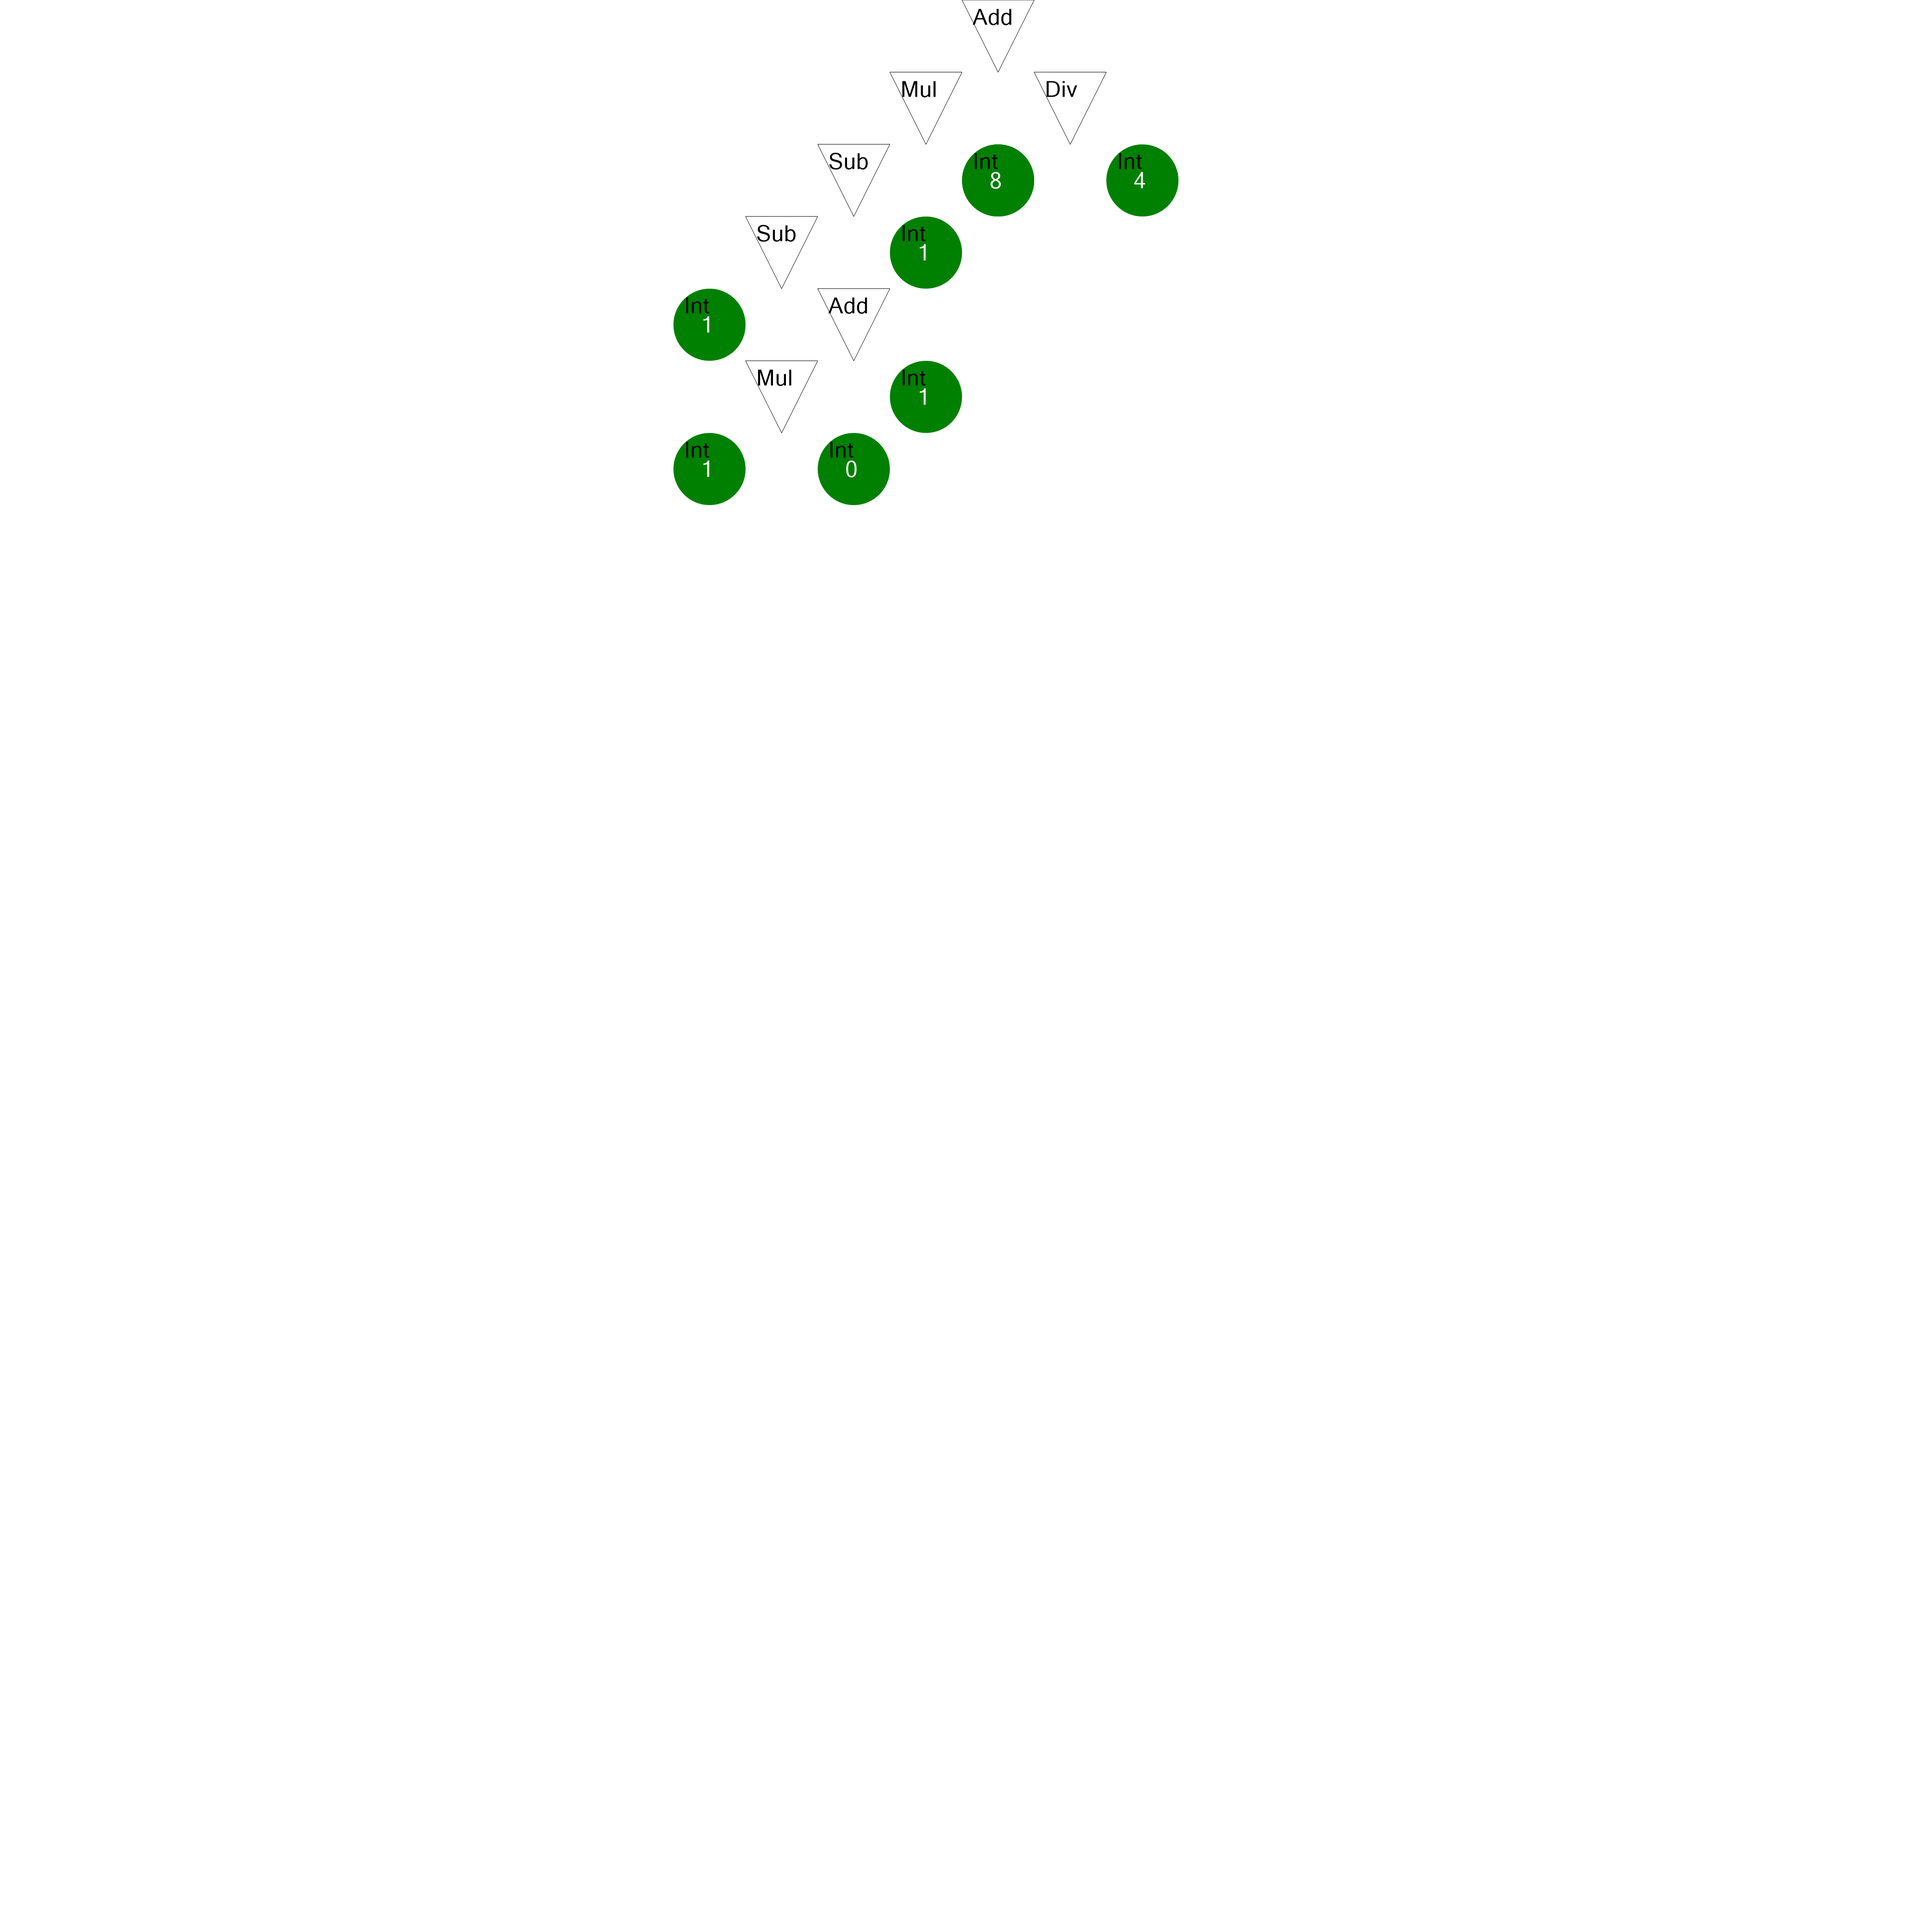
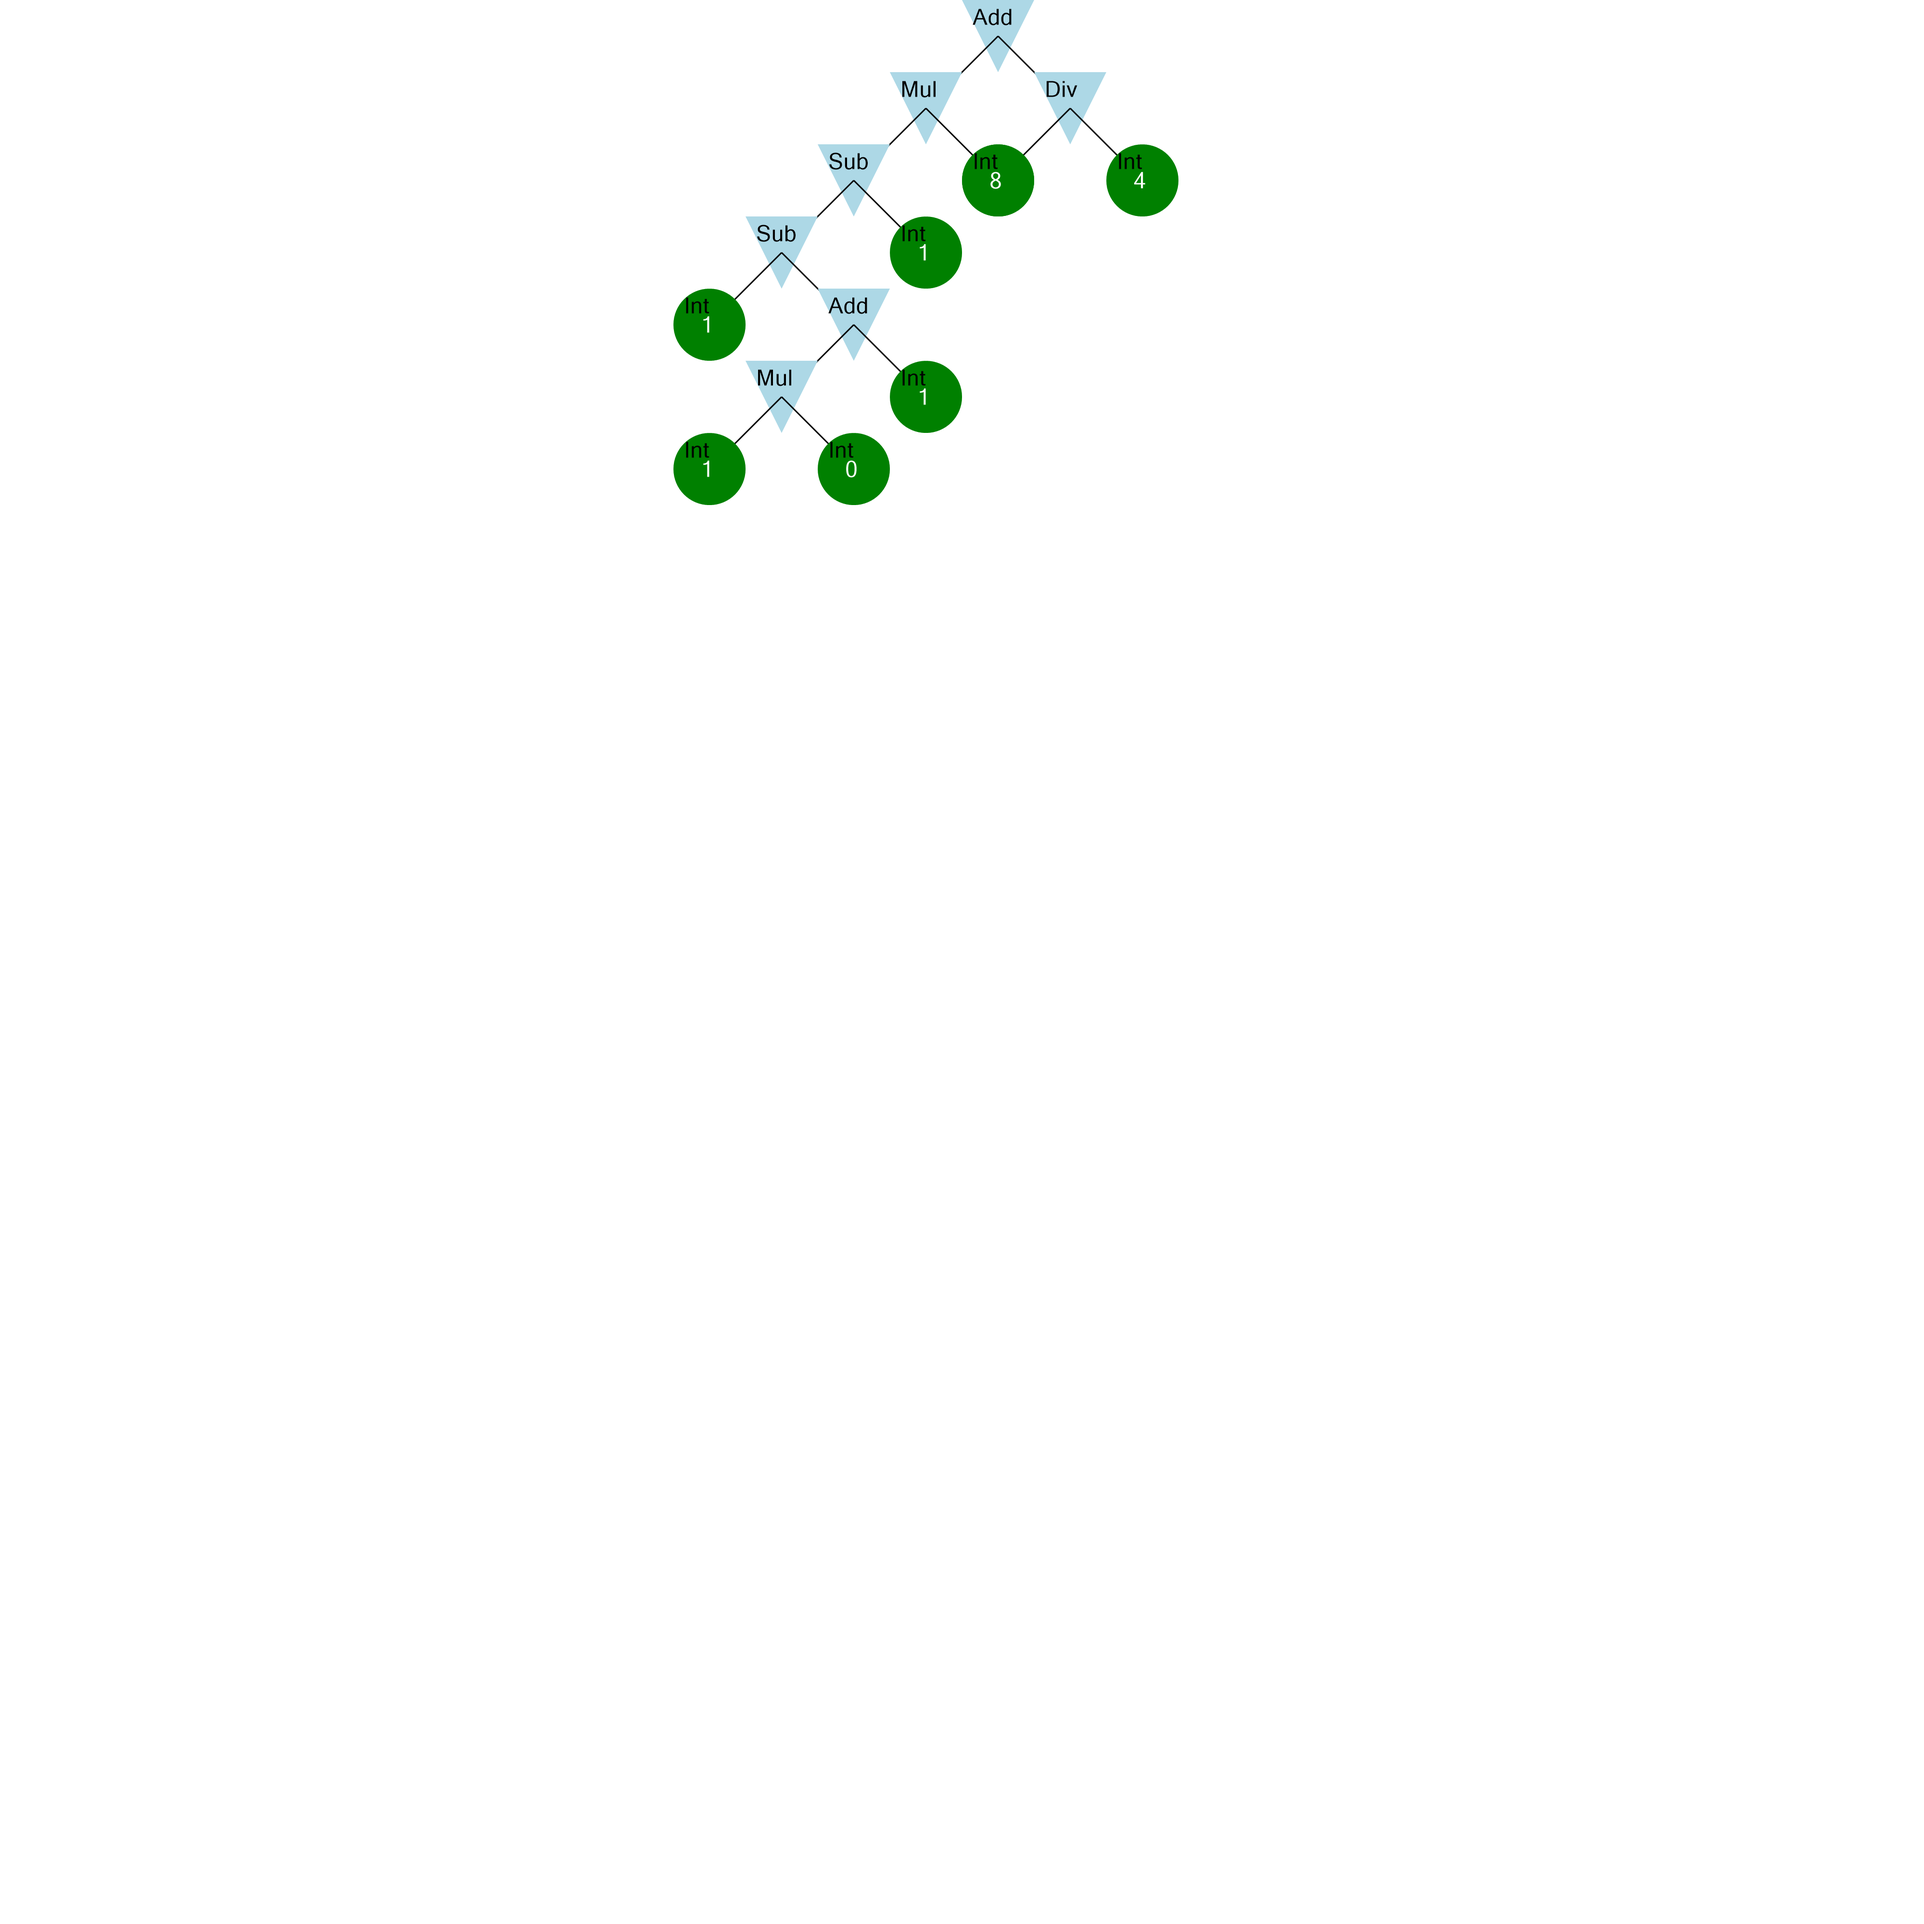
Implemented connection between nodes

Changed region(s): [[0.375, 0.0312, 0.5, 0.2188], [0.5312, 0.0312, 0.5938, 0.0938], [0.5, 0.0, 0.5312, 0.0312]]

diff --git a/src/Athena.NET/Athena.NET.ParseViewer/NodeElements/NodeGraphElement.cs b/src/Athena.NET/Athena.NET.ParseViewer/NodeElements/NodeGraphElement.cs
@@ -15,6 +15,8 @@ namespace Athena.NET.Athena.NET.ParseViewer.NodeElements
         private ReadOnlyMemory<NodeShape> nodeShapes;
 
         public Brush TextBrush { get; set; } = Brushes.Black;
+        public Pen LinePen { get; set; } =
+            new Pen(Brushes.Black, 3);
         public int NodeDistance { get; set; }
 
         public NodeGraphElement(int distance, ReadOnlyMemory<NodeShape> nodeShapes)
@@ -35,10 +37,10 @@ namespace Athena.NET.Athena.NET.ParseViewer.NodeElements
             currentShape.DrawShape.Invoke(node, nodeRectangle, graphics);
 
             string tokenName = node.NodeToken.GetEnumTokenName();
-            var textRectangle = new Rectangle(new(position.X + (nodeSize.Width / 10), position.Y + 10), new(nodeSize.Width - (tokenName.Length * 2), nodeSize.Height - 40));
+            var textRectangle = new Rectangle(new(position.X + (nodeSize.Width / 10), position.Y + 10), new(nodeSize.Width - (tokenName.Length * 3), nodeSize.Height - 40));
             graphics.DrawString(tokenName, SystemFonts.DefaultFont, TextBrush, textRectangle);
 
-            DrawNodeChildrens(node.ChildNodes, graphics, position);
+            DrawNodeChildrens(node, graphics, position);
         }
 
         private NodeShape GetNodeShape(INode node) 
@@ -57,15 +59,37 @@ namespace Athena.NET.Athena.NET.ParseViewer.NodeElements
             return NodeShape.DefaultShape;
         }
 
-        private void DrawNodeChildrens(ChildrenNodes childrenNodes, Graphics graphics, Point position)
+        private void DrawNodeChildrens(INode parentNode, Graphics graphics, Point position)
         {
             int childrenYPosition = position.Y + NodeDistance;
             var leftNodePosition = new Point(position.X - NodeDistance, childrenYPosition);
             var rightNodePosition = new Point(position.X + NodeDistance, childrenYPosition);
 
-            OnDraw(childrenNodes.LeftNode, graphics, leftNodePosition);
-            OnDraw(childrenNodes.RightNode, graphics, rightNodePosition);
+            DrawNodeConnection(parentNode.ChildNodes.LeftNode, leftNodePosition, parentNode, position, graphics);
+            DrawNodeConnection(parentNode.ChildNodes.RightNode, rightNodePosition, parentNode, position, graphics);
+            OnDraw(parentNode.ChildNodes.LeftNode, graphics, leftNodePosition);
+            OnDraw(parentNode.ChildNodes.RightNode, graphics, rightNodePosition);
         }
+
+        //I know that looks wierd and I will
+        //totally rewrite this in a next days
+        private void DrawNodeConnection(INode firstNode, Point firstPosition, INode secondNode, Point secondPosition, Graphics graphics)
+        {
+            if (firstNode is null || secondNode is null)
+                return;
+
+            var firstNodeCenter = CalculateCenterPosition(firstNode, firstPosition);
+            var secondNodeCenter = CalculateCenterPosition(firstNode, secondPosition);
+
+            graphics.DrawLine(LinePen, firstNodeCenter, secondNodeCenter);
+        }
+
+        private Point CalculateCenterPosition(INode node, Point currentPosition) 
+        {
+            var nodeSize = CalculateNodeSize(node);
+            return new(currentPosition.X + (nodeSize.Width / 2),
+                currentPosition.Y + (nodeSize.Height / 2));
+        } 
 
         private Size CalculateNodeSize(INode node)
         {

diff --git a/src/Athena.NET/Program.cs b/src/Athena.NET/Program.cs
@@ -8,6 +8,9 @@ using Athena.NET.Athena.NET.ParseViewer;
 using System.Drawing;
 using System.Drawing.Imaging;
 
+//This is here just for easy and fast
+//debugging, it will changed as soon
+//as possible
 using (var tokenReader = new TokenReader
     (File.Open(@"C:\Users\uzivatel\source\repos\Athena.NET\examples\Program.ath", FileMode.Open))) 
 {
@@ -18,14 +21,13 @@ using (var tokenReader = new TokenReader
         resultOperator.CreateNodes(tokens, operatorTokenIndex);
 
     ReadOnlyMemory<INode> nodes = new INode[] { resultOperator };
-
-    //resultOperator.Evaluate();
     using (var nodeViewer = new NodeViewer(nodes, new Size(4000, 4000)))
     {
         Image nodeImage = nodeViewer.CreateImage();
         nodeImage.Save(@"C:\Users\uzivatel\source\repos\Athena.NET\examples\Node1.png", ImageFormat.Png);
     }
 
+    //resultOperator.Evaluate();
     //WriteTokens(tokens);
     Console.ReadLine();
 }

diff --git a/src/Athena.NET/Athena.NET.ParseViewer/NodeViewer.cs b/src/Athena.NET/Athena.NET.ParseViewer/NodeViewer.cs
@@ -21,7 +21,7 @@ namespace Athena.NET.Athena.NET.ParseViewer
                 {
                     new(typeof(OperatorNode),
                         (INode node, Rectangle rectangle, Graphics graphics)
-                            => graphics.DrawPolygon(Pens.Black, new PointF[]
+                            => graphics.FillPolygon(Brushes.LightBlue, new PointF[]
                             {
                                 new(rectangle.X, rectangle.Y),
                                 new(rectangle.X + rectangle.Width, rectangle.Y),
